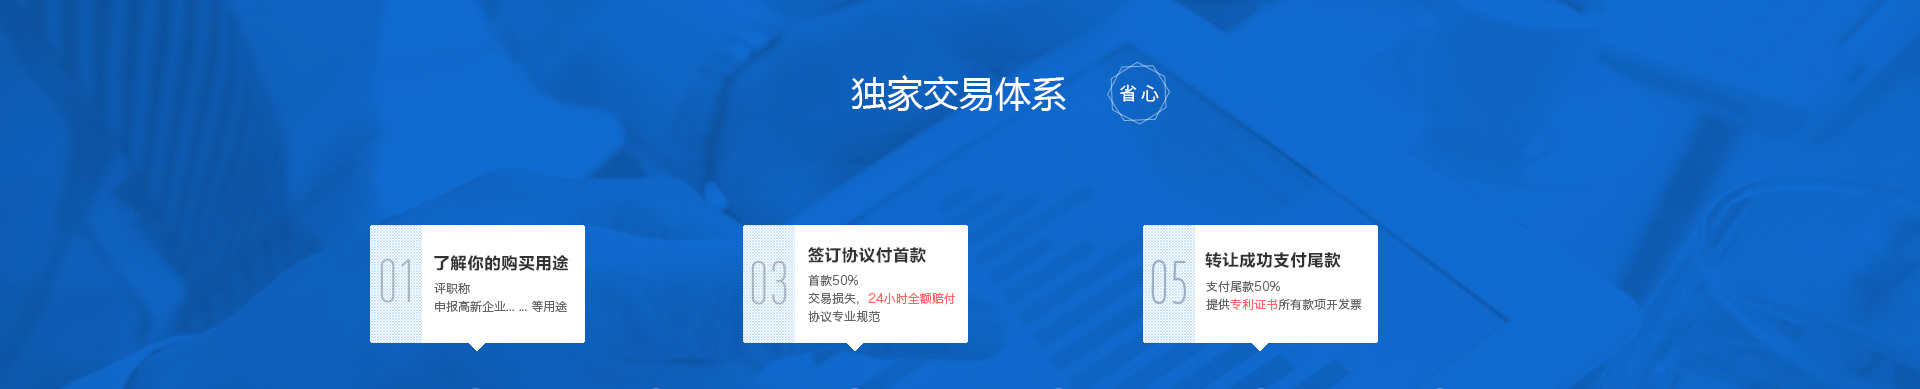
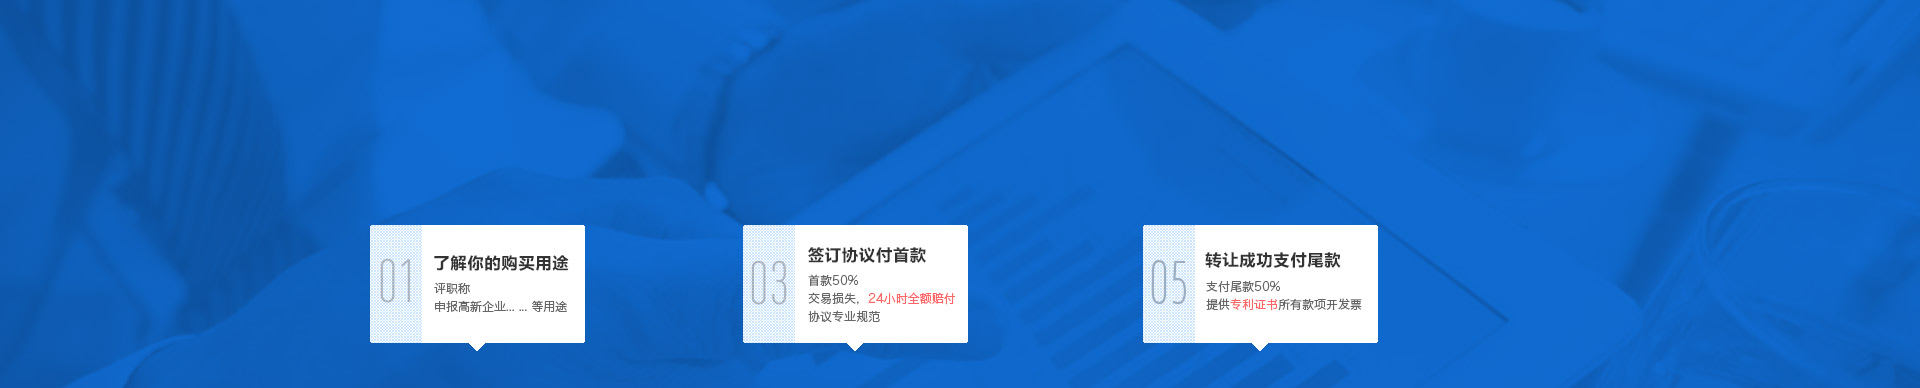
修改专利上线专题
git-svn-id: http://192.168.0.5/svn/Member/trade/web@9978 8c2d0303-d7d2-0546-a2d7-8b6cbec2f4b4

diff --git a/Static/topic/ptline/css/style.css b/Static/topic/ptline/css/style.css
@@ -10,7 +10,7 @@ caption,th {text-align:left}
 h1,h2,h3,h4,h5,h6 {font-size:100%;font-weight:normal}
 q:before,q:after {content:''}
 abbr,acronym { border:0}
-body{min-width: 1400px;}
+body{min-width: 1400px;background-color: #ffffff;}
 .fl{float: left}
 .fr{float: right}
 .color{color: #8d5741;}
@@ -29,6 +29,25 @@ body{min-width: 1400px;}
     width: 100%;
     height:720px;
     overflow: hidden;
+}
+
+.pt-banner2-tit{
+    width: 100%;
+    height: 388px;
+    background: url("../images/pt-banner2.jpg") no-repeat top center;
+    overflow: hidden;
+}
+.pt-banner2-tit h3{
+    text-align: center;
+    margin-top: 60px;
+    color: #ffffff;
+    font-size: 36px;
+}
+.pt-banner2-tit h3 img{
+    display: inline-block;
+    vertical-align: middle;
+    margin-left: 14px;
+    margin-bottom: 2px;
 }
 .pt-banner2 img{
     vertical-align: top;

diff --git a/App/View/topic/topic.ptline.html b/App/View/topic/topic.ptline.html
@@ -6,7 +6,9 @@
       <img src="<?=StaticDir?>topic/ptline/images/pt-talk.jpg">
   </div>
   <div class="pt-banner2">
-      <img src="<?=StaticDir?>topic/ptline/images/pt-banner2.jpg">
+       <div class="pt-banner2-tit">  
+          <h3>独家交易体系<img src="<?=StaticDir?>topic/ptline/images/sx.png"></h3>
+       </div>
       <img src="<?=StaticDir?>topic/ptline/images/pt-banner3.jpg">
   </div>
   <div class="pt-team">
